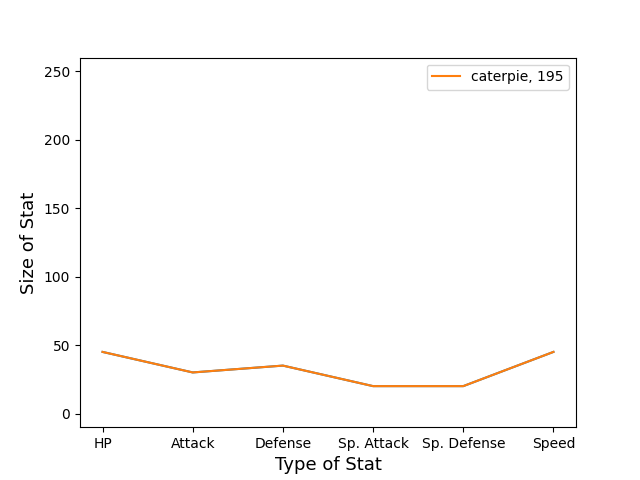
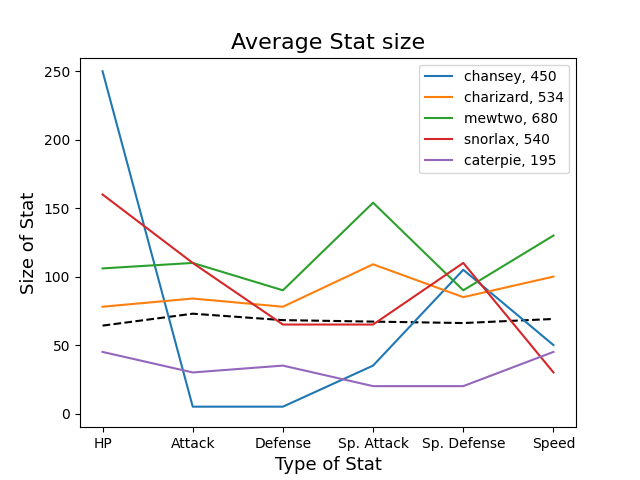
subplots -> plots

diff --git a/src/v1/visualization.py b/src/v1/visualization.py
@@ -16,8 +16,8 @@ def specific_pokemon(name: str):
     x = ['HP','Attack','Defense','Sp. Attack','Sp. Defense','Speed']
     y = [hp, attack, defense, sp_attack, sp_defense, speed]
 
-    fig, ax = plt.subplots()
-    ax.plot(x,y)
+    #fig, ax = plt.subplots()
+    #ax.plot(x,y)
     plt.plot(x,y,label=f'{name}, {sum_stats}')
 
 
